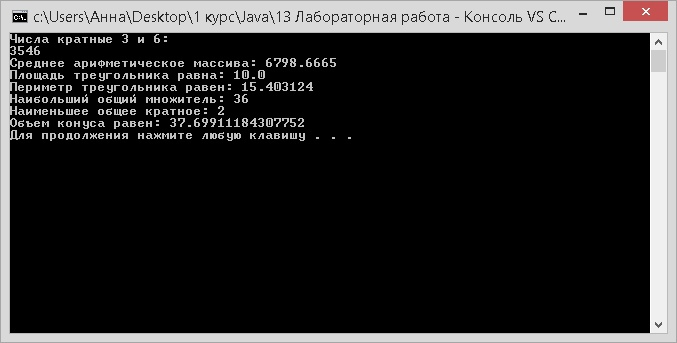
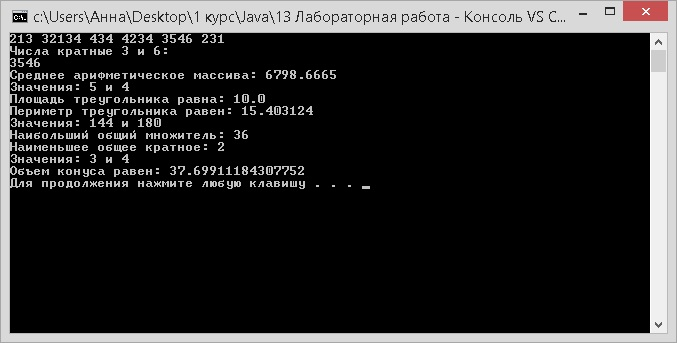
master

Changed region(s): [[0.0, 0.0875, 0.4963, 0.5539], [0.5273, 0.5248, 0.5583, 0.5539]]

diff --git a/9 Лабораторная работа/src/App.java b/9 Лабораторная работа/src/App.java
@@ -53,14 +53,34 @@ public class App {
         }
     }
 
+    static void search(String text, char t){
+        int kol = 0;
+        for (int i = 0; i < text.length(); ++i){
+            if (text.charAt(i) == t){
+                kol++;
+            }
+            if (kol == 2){
+                System.out.println("Символ встречается хотя бы два раза");
+                break;
+            }
+        }
+        if (kol < 2){
+            System.out.println("Символ не встречается хотя бы два раза");
+        }
+    }
+
     public static void main(String[] args) throws Exception {
         nechet_for();
-        System.out.println("\n\nфакториал числа циклом for: " + factorial_for(5));
+        System.out.println("\n\n5");
+        System.out.println("факториал числа циклом for: " + factorial_for(5));
         nechet_while();
-        System.out.println("\n\nфакториал числа циклом while: " + factorial_while(5));
-        System.out.println("\n\nВозведение в степень: " + pow(6, 3));
+        System.out.println("\n\n5");
+        System.out.println("факториал числа циклом while: " + factorial_while(5));
+        System.out.println("\n\n6 в 3");
+        System.out.println("Возведение в степень: " + pow(6, 3));
         System.out.println("\n\nПоследовательность чисел: ");
         order(10);
-        //6 Задание. Не понятно насчет того, что какой символ должен встречаться два раза в строке
+        System.out.println("\n\nПипевень е");
+        search("Пипевень", 'е');
     }
 }

diff --git a/8 Лабораторная работа/src/App.java b/8 Лабораторная работа/src/App.java
@@ -17,6 +17,14 @@ public class App {
         String compare = function.compare(name1, name2);
         String season = function.seasons(mounth);
 
+        System.out.print(a + " ");
+        System.out.print(b + " ");
+        System.out.print(c + " ");
+        System.out.print(d + " ");
+        System.out.println(e);
+        System.out.println(name1);
+        System.out.println(name2);
+        System.out.println(mounth);
         System.out.println("Минимально число среди четырех чисел: " + min);
         System.out.println("Количетсво максимальных чисел среди четырех: " + kol_max_chisl);
         System.out.println("Минимальное среди пяти чисел: " + min_five);

diff --git a/13 Лабораторная работа/src/App.java b/13 Лабораторная работа/src/App.java
@@ -53,10 +53,17 @@ public class App {
 
     public static void main(String[] args) throws Exception {
         int[] x = {213, 32134, 434, 4234, 3546, 231};
+        for (int i : x) {
+            System.out.print(i + " ");
+        }
+        System.out.println();
         divisible(x);
         avearge(x);
+        System.out.println("Значения: 5 и 4");
         area_and_perimeter(5, 4);
+        System.out.println("Значения: 144 и 180");
         multiple(144, 180);
+        System.out.println("Значения: 3 и 4");
         cone(3, 4);
     }
 }

diff --git a/10 Лабораторная работа/src/App.java b/10 Лабораторная работа/src/App.java
@@ -91,6 +91,11 @@ public class App {
     public static void main(String[] args) throws Exception {
         int[] array = {12, 43, 1331, 4, 6, 2, 9, 77, 9};
 
+        for (int i : array) {
+            System.out.print(i + " ");
+        }
+        System.out.println();
+
         create_array();
         mins_array(array);
         max_array(array);

diff --git a/2 Лабораторная работа/src/HelloWorld.java b/2 Лабораторная работа/src/HelloWorld.java
@@ -1,5 +1,5 @@
 public class HelloWorld {
     public static void main(String[] args) throws Exception {
-        System.out.println("Hello, World!");
+        System.out.println("Привет, Мир!");
     }
 }
